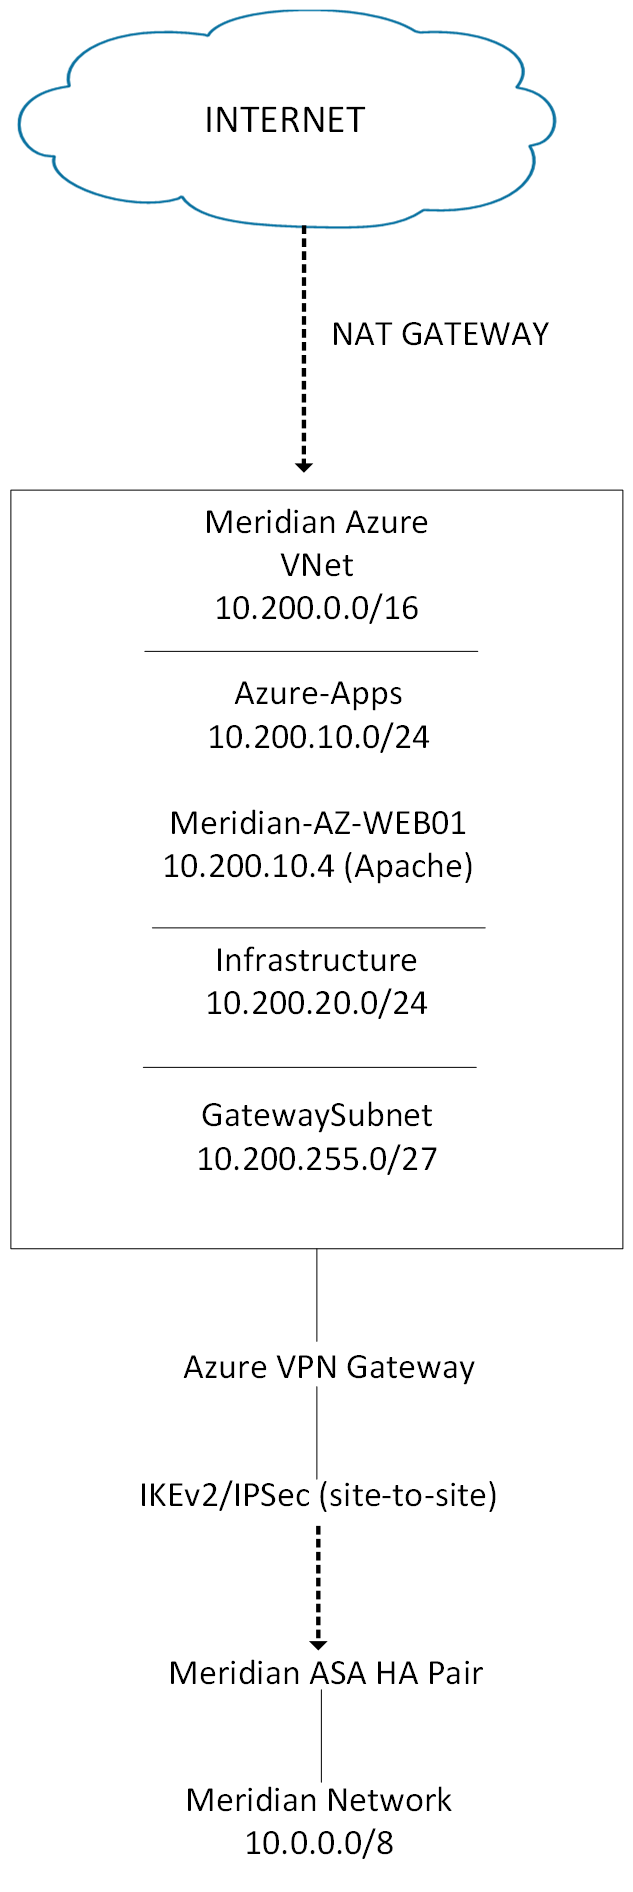
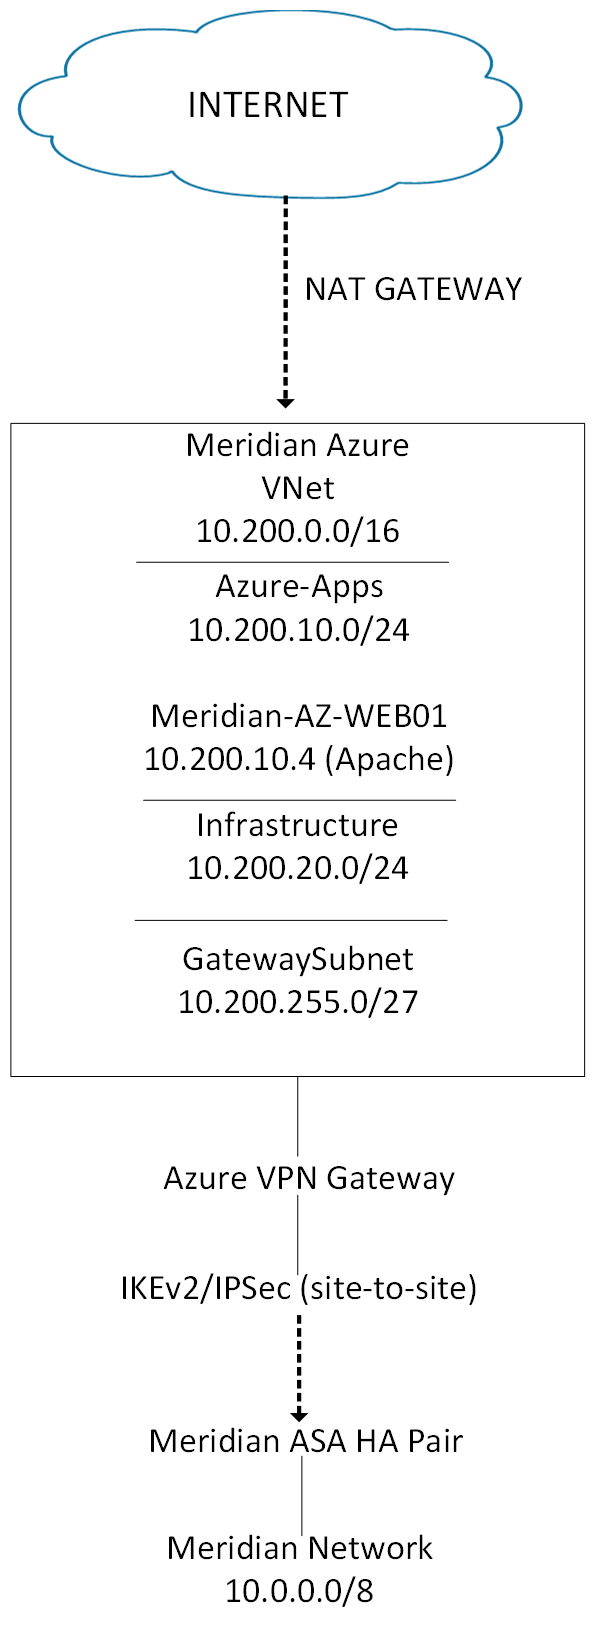
Editing

diff --git a/Azure /01-Architecture/README.md b/Azure /01-Architecture/README.md
@@ -2,8 +2,6 @@
  
 Baseline hybrid architecture connecting the Meridian on-premises network to Azure via a route-based site-to-site IKEv2/IPsec VPN.
  
-> **Note:** This is the living architecture baseline. Status and links will be updated as remaining work is completed. It is not intended as a frozen final document.
- 
 ---
  
 ## 1. Purpose
@@ -20,40 +18,8 @@ Detailed implementation, testing, and evidence live in the related folders liste
 ---
  
 ## 2. High-Level Topology
- 
-```text
-INTERNET
-    |
-NAT Gateway
-    |
-+-----------------------+
-|   Meridian Azure VNet |
-|     10.200.0.0/16     |
-|                       |
-|  Azure-Apps           |
-|  10.200.10.0/24       |
-|  MERIDIAN-AZ-WEB01    |
-|  10.200.10.4 (Apache) |
-|                       |
-|  Infrastructure       |
-|  10.200.20.0/24       |
-|                       |
-|  GatewaySubnet        |
-|  10.200.255.0/27      |
-+-----------|-----------+
-            |
-     Azure VPN Gateway
-            |
-       IKEv2/IPsec
-            |
-     Meridian ASA HA Pair
-            |
-     Meridian Network
-```
- 
-**Screenshot – High-level Azure topology**  
-`diagrams/` or `screenshots/high-level-azure-topology.png`  
-*(Overall VNet, subnets, VPN Gateway, NAT Gateway, and connection to on-premises)*
+
+![Topology](evidence/screenshots/high-level-diagram.png)
  
 ---
  
